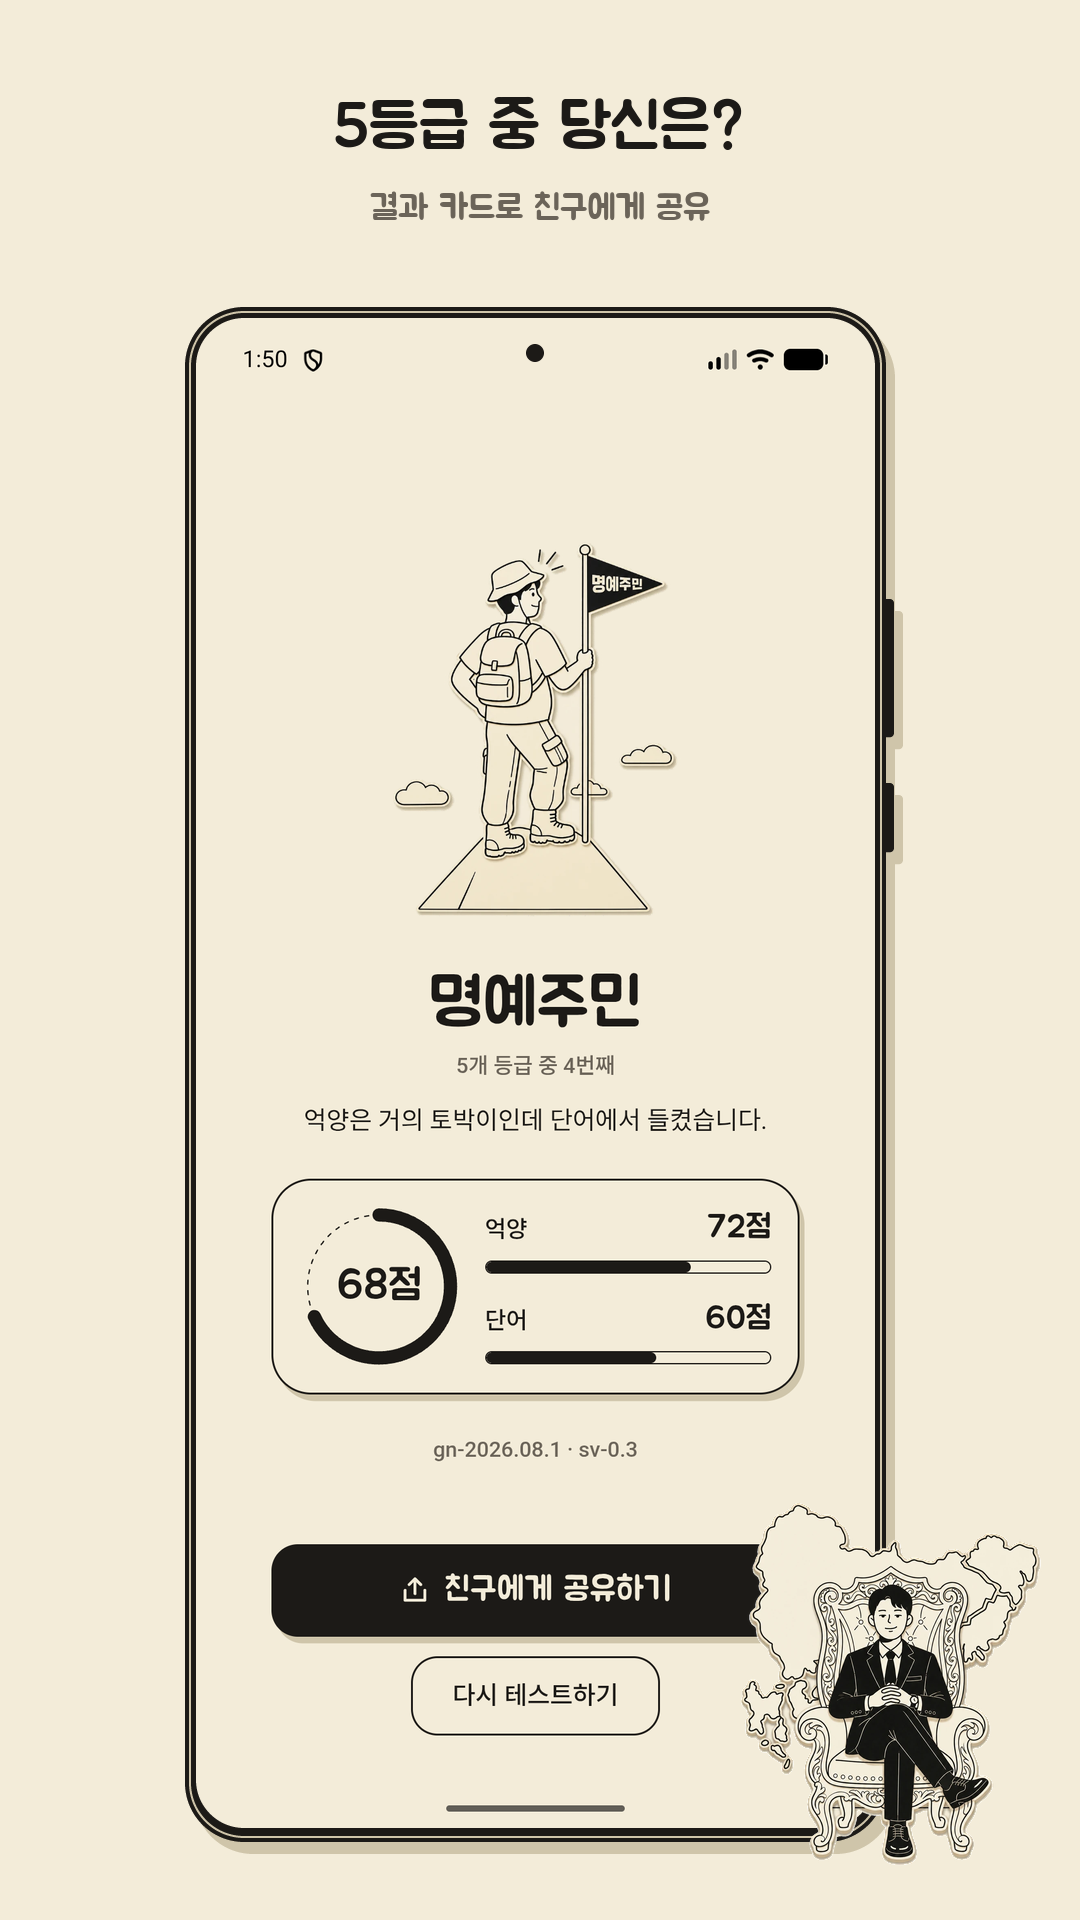
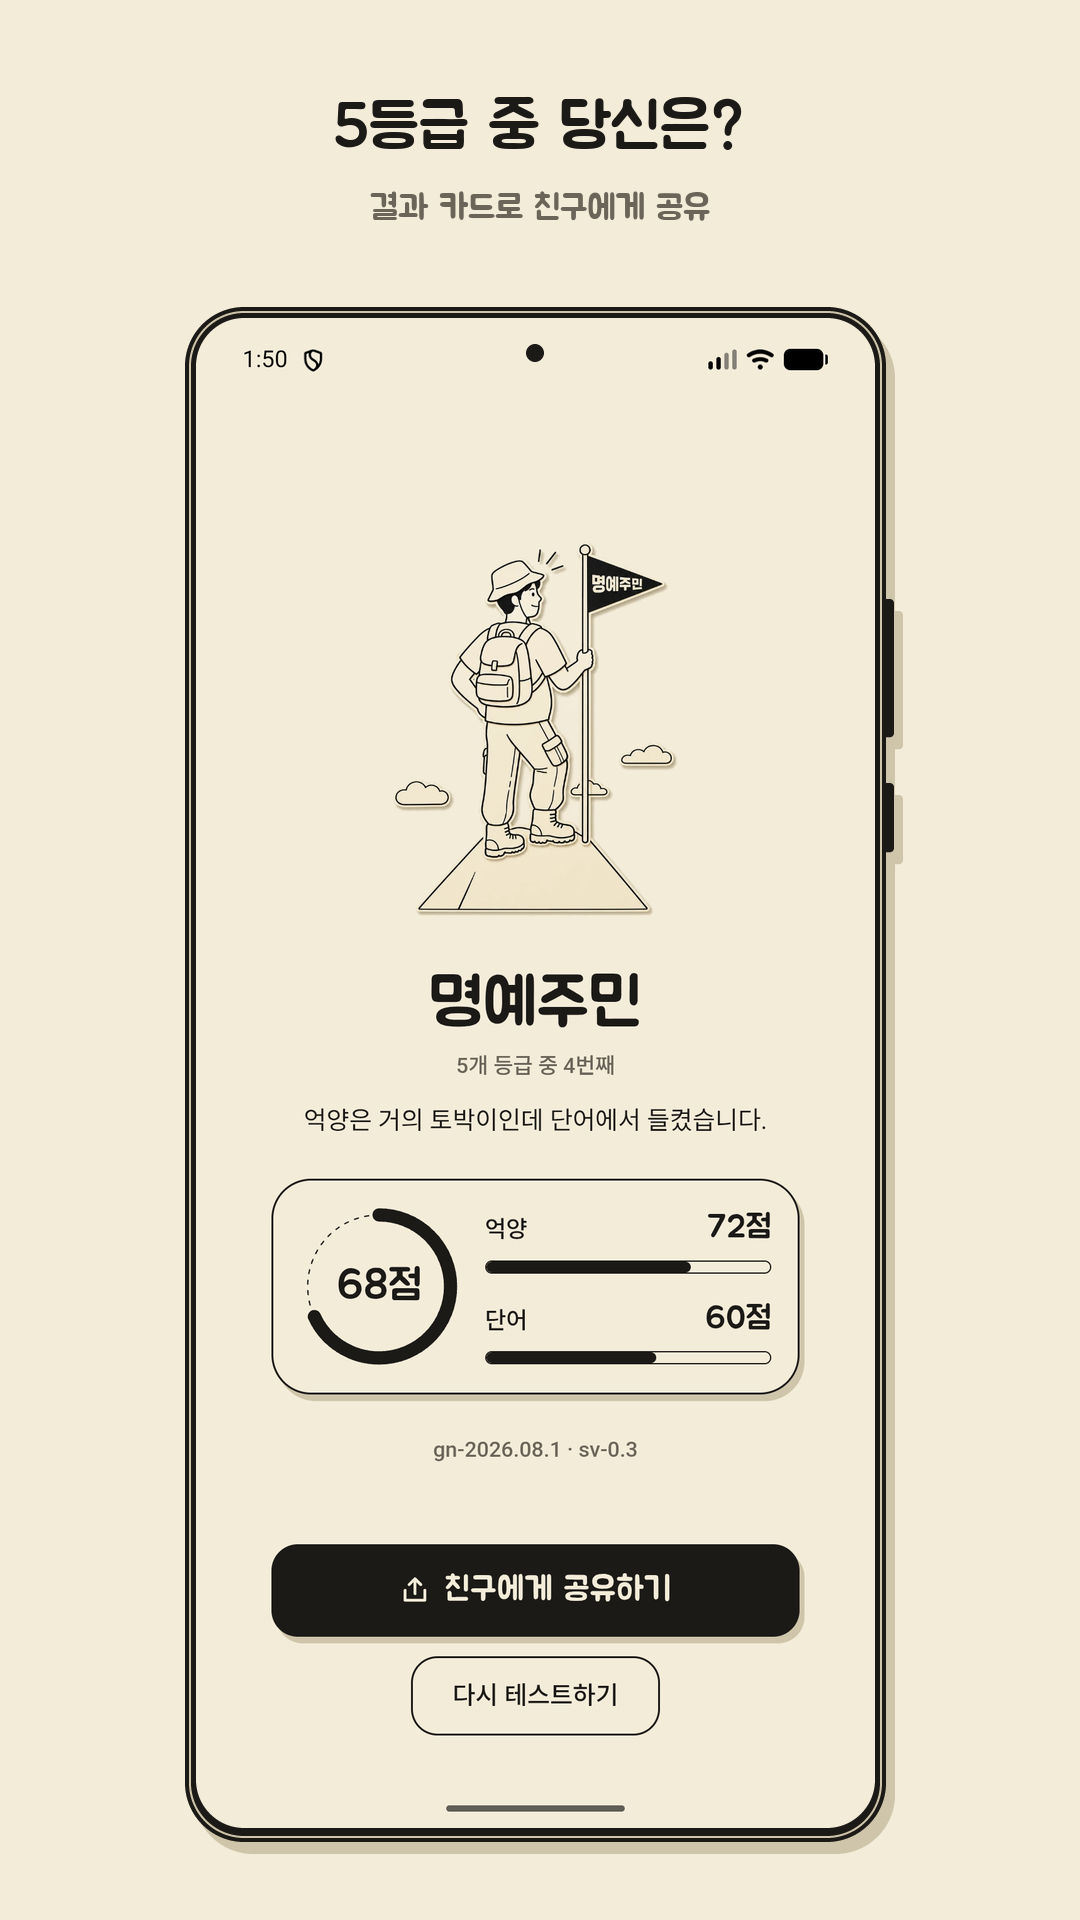
KAN-178 스크린샷 결과 화면 캐릭터 스티커 제거(STICKER_SCREEN=None)
Claude-Session: https://claude.ai/code/session_01Nud2Q8pYYmbEKkf6aeyY5Q

Changed region(s): [[0.6722, 0.7812, 0.9778, 0.9688]]

diff --git a/assets/screenshots/build.py b/assets/screenshots/build.py
@@ -119,7 +119,7 @@ PLATFORM_DEVICE = {"android": DEVICE_GALAXY_S25, "ios": DEVICE_IPHONE_17_PRO}
 # --- 캐릭터 스티커 -------------------------------------------------------------------------
 # 결과 화면에만 "경남 토박이"를 겹쳐 놓는다. `assets/characters/build.py` 산출물이라 없으면 건너뛴다.
 STICKER_SRC = REPO / "web" / "src" / "assets" / "characters" / "native.webp"
-STICKER_SCREEN = "04-result"
+STICKER_SCREEN = None  # 스티커를 얹을 화면 id. 2026-09-03 결정으로 끔(None) — 결과 화면의 캐릭터와 겹쳐 보여 뺐다. 되살리려면 "04-result"
 STICKER_W = 0.28  # W 대비 폭
 STICKER_RIGHT, STICKER_BOTTOM = 0.035, 0.028  # W·H 대비 오른쪽·아래 여백
 
